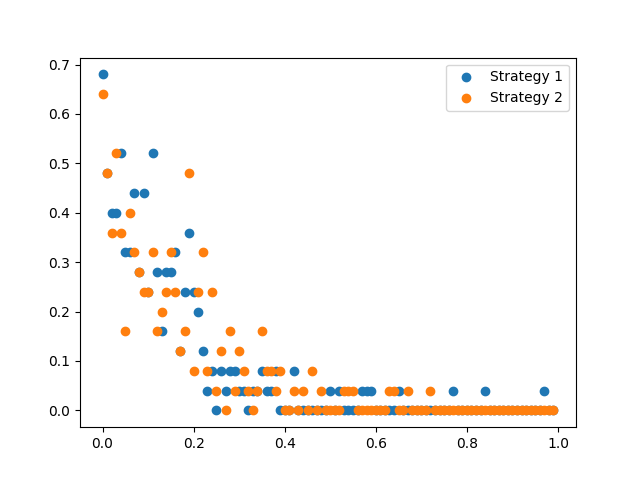
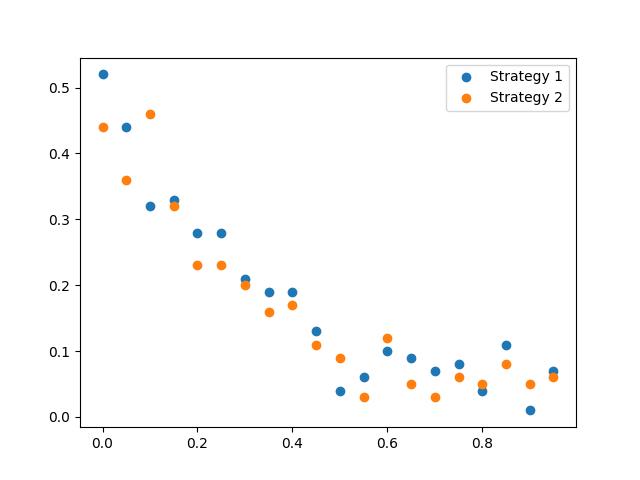
problem 6 if statement

diff --git a/FireMaze_p1/driver.py b/FireMaze_p1/driver.py
@@ -34,7 +34,7 @@ def problem2():
     plt.ylabel("Probability that S can be reached from G")
     plt.show()
 
-#generate plot of obstacle density p versus nodes explored by BFS vs A*
+#generate plot of obstacle density p versus nodes explored by BFS - A*
 def problem3():
     dim = 50
     times = 100
@@ -69,6 +69,8 @@ def problem4():
         p = .3
         q = 0
         begin = (0, 0)
+        #loop ends if algorithm takes over 60 seconds and step is <= 1
+        #step is added to dimensions if time < 60 else step is cut in half and subtracted from dimension
         while True:
             end = (dim - 1, dim - 1)
             maze = mg.maze(dim, p, q)
@@ -102,8 +104,8 @@ def problem4():
 
 #generate graph comparing success rate of strategy 1 vs strategy 2 at various q
 def problem45():
-    dim = 25
-    times = 25
+    dim = 15
+    times = 100
     q = 0
     X = []
     Y1 = []
@@ -130,12 +132,7 @@ def problem45():
         X.append(q)
         Y1.append(success_1/times)
         Y2.append(success_2/times)
-        print(q)
-        print(Y1[-1])
-        print(Y2[-1])
-        q+=.01
-    print(sum(Y1)/len(Y1))
-    print(sum(Y2)/len(Y2))
+        q+=.05
     plt.scatter(X,Y1,label = 'Strategy 1')
     plt.scatter(X,Y2, label = 'Strategy 2')
     plt.legend()
@@ -151,24 +148,29 @@ def problem_6():
     avg = [0, 0, 0, 0]
     fig, ax = plt.subplots()
     i = 0
+    #create scatter for each strategy
     for strategy, color in [(1, 'tab:blue'), (2, 'tab:orange'), (3, 'tab:green'), (4, 'tab:red')]:  #(5, 'tab:black')
         q = 0
         X = []
         Y = []
+        #test q from 0 to 1 at step of .05
         while q <= 1:
             num_success = 0
             for x in range(trials):
                 success = False
                 while True: 
-                    exp1 = mr.experiment(dim, p, q, start, end, strategy)
-                    solvable = exp1.maze.DFS(start, end)
-                    if solvable:
+                    exp = mr.experiment(dim, p, q, start, end, strategy)
+                    fire_coords = exp.start_fire()
+                    if exp.maze.Astar(start,end) == constants.NO_PATH or exp.maze.Astar(fire_coords,start)==constants.NO_PATH:
+                        continue
+                    else:
                         break
-                success = exp1.man_run()
+                success = exp.man_run()
                 if success:
                     num_success += 1
             Y.append(num_success / trials)
             X.append(q)
+            print(q)
             q += .05
         ax.scatter(X, Y, c=color, label=strategy, alpha=.5)
         print("Finished strategy", strategy)
@@ -180,6 +182,8 @@ def problem_6():
     ax.grid(True)
     plt.show()
     print(avg)
-problem45()
-#problem_6()
+
+#test()
+#problem45()
+problem_6()
 

diff --git a/FireMaze_p1/firemaze_runner.py b/FireMaze_p1/firemaze_runner.py
@@ -38,7 +38,8 @@ class experiment:
                         return False
 
     def man_run(self):
-        self.start_fire()
+        if not self.maze.fireloc:
+                self.start_fire()
         plan = []
         #print("Start grid")
         #print(self.maze.grid)
